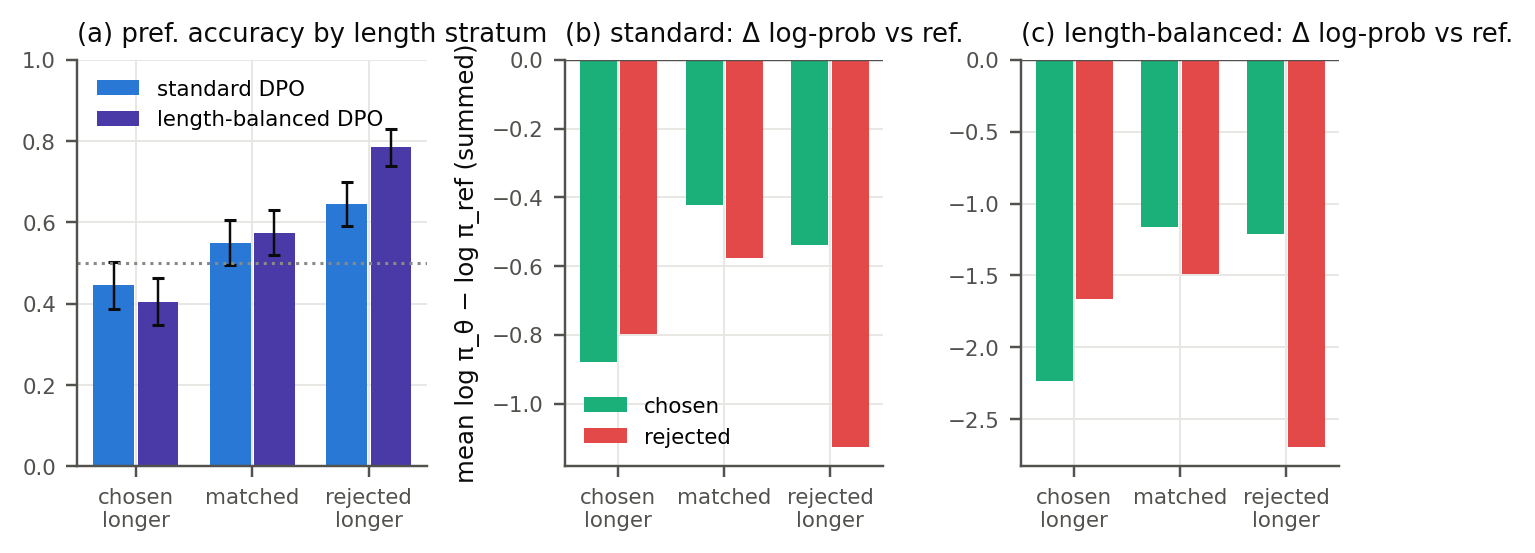
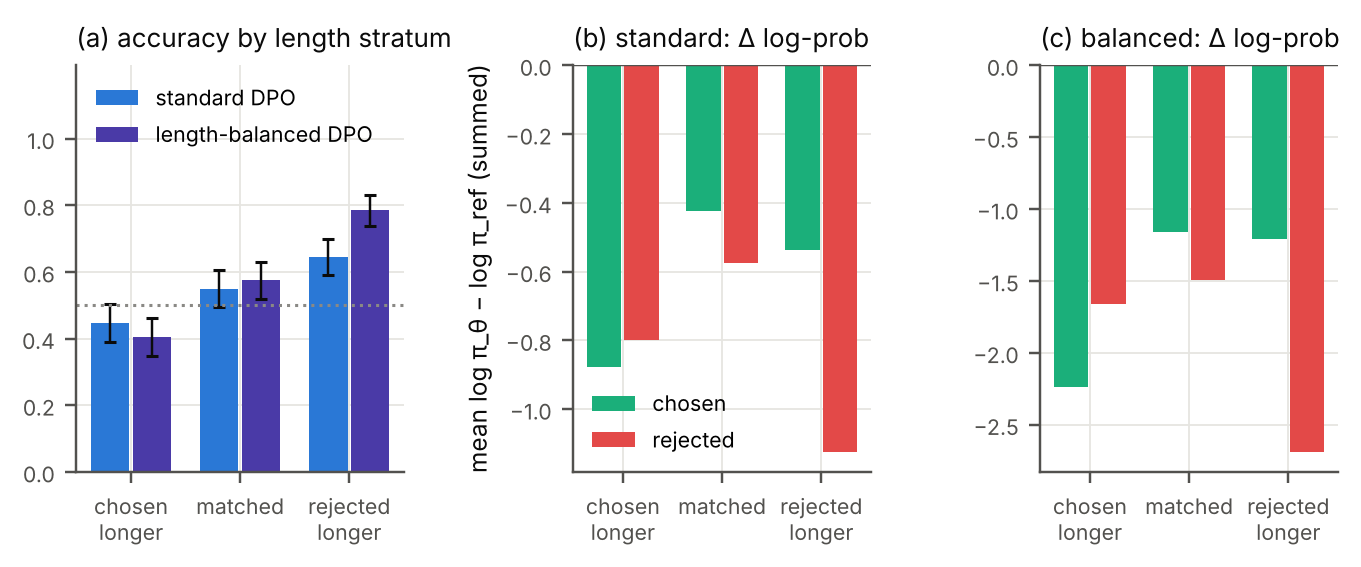
Tidy t1_length panel titles and legend

diff --git a/report/make_figures.py b/report/make_figures.py
@@ -132,7 +132,7 @@ def t1_length():
     d = R / "task1_dpo"
     strata = [("preferred_longer", "chosen\nlonger"), ("length_matched", "matched"), ("rejected_longer", "rejected\nlonger")]
     models = [("standard", "standard DPO", C[0]), ("length_balanced", "length-balanced DPO", C[6])]
-    fig, axes = plt.subplots(1, 3, figsize=(7.4, 2.4), gridspec_kw={"width_ratios": [1.1, 1, 1], "wspace": 0.42})
+    fig, axes = plt.subplots(1, 3, figsize=(7.4, 2.4), gridspec_kw={"width_ratios": [1.1, 1, 1], "wspace": 0.55})
     w = 0.38
     for i, (m, lab, col) in enumerate(models):
         st = js(d / f"eval_{m}.json")["stratified"]["by_stratum"]
@@ -142,9 +142,10 @@ def t1_length():
                     error_kw={"lw": 0.8, "ecolor": INK})
     axes[0].axhline(0.5, color=GREY, ls=":", lw=1)
     axes[0].set_xticks(range(3), [s[1] for s in strata])
-    axes[0].set_ylim(0, 1)
-    axes[0].legend(loc="upper left")
-    panel_label(axes[0], "(a) pref. accuracy by length stratum")
+    axes[0].set_ylim(0, 1.22)
+    axes[0].set_yticks(np.arange(0, 1.01, 0.2))
+    axes[0].legend(loc="upper left", fontsize=7)
+    panel_label(axes[0], "(a) accuracy by length stratum")
     for ax, (m, lab, _) in zip(axes[1:], models):
         rows = jl(d / f"pairs_{m}_stratified.jsonl")
         dc = [np.mean([r["policy_chosen_logp"] - r["ref_chosen_logp"] for r in rows if r["stratum"] == s]) for s, _ in strata]
@@ -153,7 +154,7 @@ def t1_length():
         ax.bar(np.arange(3) + w / 2, dr, w * 0.92, color=C[7], label="rejected")
         ax.axhline(0, color=MUTED, lw=0.8)
         ax.set_xticks(range(3), [s[1] for s in strata])
-        panel_label(ax, f"({'b' if ax is axes[1] else 'c'}) {lab.split()[0]}: Δ log-prob vs ref.")
+        panel_label(ax, f"({'b' if ax is axes[1] else 'c'}) {lab.split()[0].replace('length-balanced', 'balanced')}: Δ log-prob")
     axes[1].set_ylabel("mean log π_θ − log π_ref (summed)")
     axes[1].legend(loc="lower left")
     save(fig, "t1_length")
